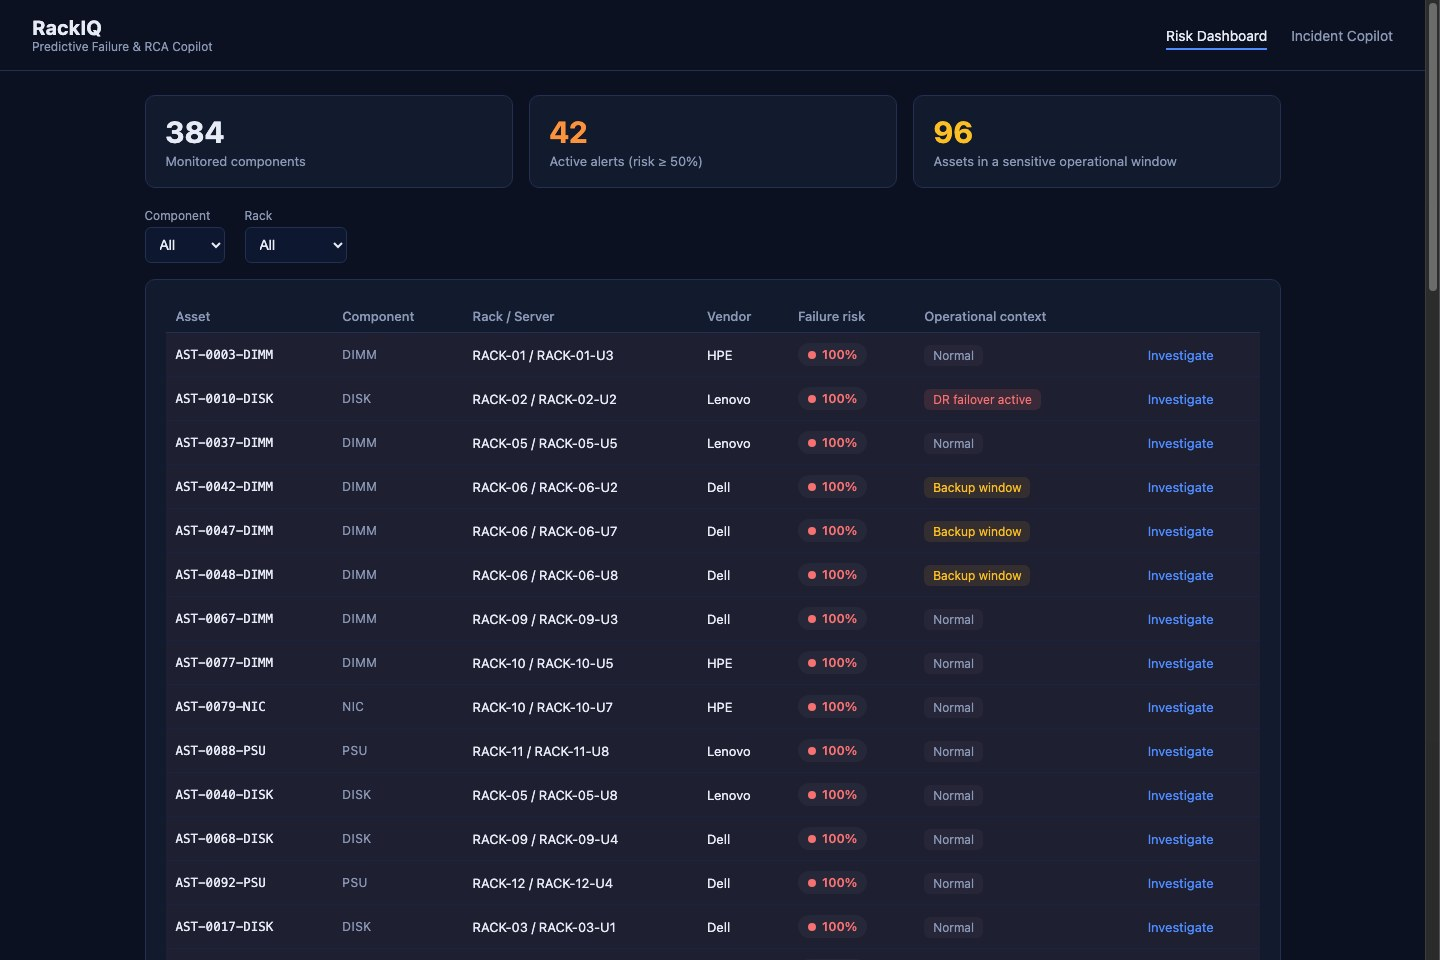
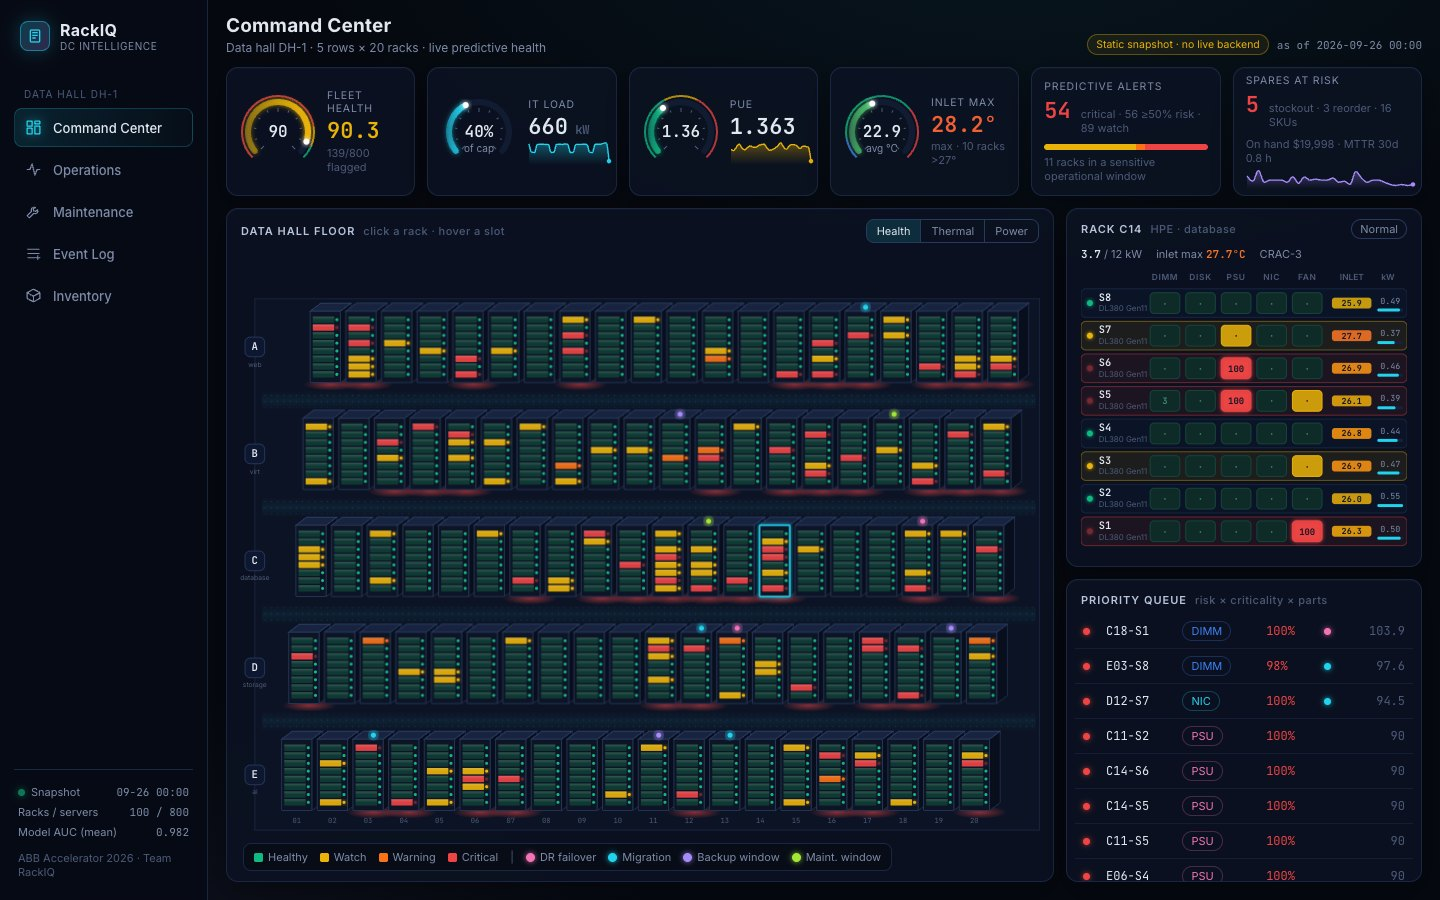
Update RackIQ project: v2 DCIM dashboard, new screenshots and links

diff --git a/_projects/4_rackiq.md b/_projects/4_rackiq.md
@@ -1,7 +1,7 @@
 ---
 layout: page
 title: RackIQ
-description: A predictive hardware failure & cited RCA recommendation copilot for data center operations. Prototype-phase finalist, ABB Accelerator 2026.
+description: A predictive hardware failure & cited RCA copilot for data centers — 100-rack DCIM dashboard with spare-parts linkage. Prototype-phase finalist, ABB Accelerator 2026.
 img: assets/img/projects/rackiq_dashboard.jpg
 importance: 4
 category: machine learning
@@ -11,29 +11,50 @@ category: machine learning
 
 ### The problem
 
-Hardware failures in a data center — DIMM errors, disk pre-failure signals, PSU faults, NIC flaps — surface during the worst possible windows: migrations, backup jobs, disaster-recovery failovers, exactly when diagnosis time extends outage exposure. The fix has usually already been found before, in a closed ticket or an RCA document from six months ago, but it's fragmented, unindexed, and held in the memory of a handful of senior engineers.
+Hardware failures in a data center — DIMM errors, disk pre-failure, PSU faults, NIC flaps, fan wear — surface during migrations, backups and DR failovers, exactly when diagnosis time extends outage exposure. The fix usually exists already in a closed ticket or an RCA from months ago, but it is fragmented and held by a few senior engineers. And if the part is not on the shelf, even the right fix waits.
 
 ### What it does
 
-RackIQ predicts component failure risk from telemetry trends — with a SHAP-based explanation of which signals are driving the score, not a bare probability — then retrieves the specific historical fix that resolved the same failure signature before, cited back to its source ticket or manual, and adapted to whatever is operationally happening on that rack right now (safe to hot-swap, or does a DR failover need to complete first?).
+RackIQ predicts 72-hour failure risk for every monitored component from telemetry trends (explained with SHAP, plus an anomaly index for early warnings), recommends the fix that actually held in the organization's own 12-month incident history — cited, ranked by durable-fix rate, with failed fixes flagged — puts a safety step first when the rack is mid-migration or serving a DR failover, and shows whether the spare part is in stock.
 
 <div class="row justify-content-sm-center mt-4">
   <div class="col-sm-12 mt-3 mt-md-0">
-    {% include figure.liquid loading="eager" path="assets/img/projects/rackiq_recommend.jpg" class="img-fluid rounded z-depth-1" %}
+    {% include figure.liquid loading="eager" path="assets/img/projects/rackiq_dashboard.jpg" class="img-fluid rounded z-depth-1" %}
   </div>
 </div>
 <div class="caption">
-  A disk at 100% predicted failure risk on a rack mid-DR-failover: the safety note comes first, the fix is cited to its source document, and confidence is scored from the evidence itself.
+  Command Center: a 3D data hall of 100 racks and 800 servers, every slot coloured by predicted health, with beacons for racks in migration, backup, DR-failover or maintenance windows.
+</div>
+
+<div class="row mt-3">
+  <div class="col-sm mt-3 mt-md-0">
+    {% include figure.liquid loading="lazy" path="assets/img/projects/rackiq_thermal.jpg" class="img-fluid rounded z-depth-1" %}
+  </div>
+  <div class="col-sm mt-3 mt-md-0">
+    {% include figure.liquid loading="lazy" path="assets/img/projects/rackiq_inventory.jpg" class="img-fluid rounded z-depth-1" %}
+  </div>
+</div>
+<div class="caption">
+  Left: the same floor in thermal mode exposes a failing cooling unit. Right: the spare-parts view flags SKUs that cannot cover the failures the models predict.
+</div>
+
+<div class="row justify-content-sm-center mt-3">
+  <div class="col-sm-12 mt-3 mt-md-0">
+    {% include figure.liquid loading="lazy" path="assets/img/projects/rackiq_recommend.jpg" class="img-fluid rounded z-depth-1" %}
+  </div>
+</div>
+<div class="caption">
+  A DIMM at 100% predicted risk on a DR-failover rack: safety step first, the proven fix with its 12-month record and live stock, and the reseat flagged because it held only a third of the time.
 </div>
 
 ### Under the hood
 
-Per-component LightGBM failure-risk models (DIMM, disk, PSU, NIC) tracked in MLflow, a hybrid BM25 + TF-IDF retrieval layer over a ticket/RCA/manual/email knowledge base, a fault knowledge graph (`Component → Symptom → Root Cause → Fix → Ticket`), and a deterministic, cited recommendation agent that combines predictive risk, retrieved evidence, and live operational context — no free-form LLM generation in the loop, so no hallucination risk. FastAPI backend, React/Vite frontend.
+Five LightGBM failure models (DIMM, disk, PSU, NIC, fan) tracked in MLflow, hybrid BM25 + vector retrieval over ~1,900 knowledge-base documents, a fault knowledge graph (`Component → Symptom → Root Cause → Fix`), and a deterministic, cited recommendation agent — no free-form LLM generation, so no hallucinated advice. FastAPI backend; a five-section DCIM frontend (Command Center, Operations, Maintenance, Event Log, Inventory) built with React and D3.js.
 
-Built on synthetic telemetry and a synthetic incident corpus (clearly documented as such) rather than real BMC/ServiceNow data, since the prototype phase runs on a fixed timeline with no access to a real data center's systems.
+Everything runs on clearly labelled synthetic data — 4,000 components, 90 days of MELT telemetry, 12 months of incidents and a simulated spare-parts warehouse — because the prototype phase has no access to a real data center's systems.
 
-- **Live demo:** [rackiq-copilot.web.app](https://rackiq-copilot.web.app) (static hosted snapshot — no backend server behind it, see the repo for why)
+- **Live demo:** [rackiq-copilot.web.app](https://rackiq-copilot.web.app) (static hosted snapshot)
 - **Source code:** [github.com/hendrosetyawan/rackiq](https://github.com/hendrosetyawan/rackiq)
-- **Demo video:** [42-second walkthrough](https://github.com/hendrosetyawan/rackiq/blob/main/docs/media/rackiq_demo.mp4)
+- **Demo video:** [56-second walkthrough](https://github.com/hendrosetyawan/rackiq/blob/main/docs/media/rackiq_demo.mp4)
 
-*Python · FastAPI · LightGBM · SHAP · MLflow · scikit-learn · BM25 · networkx · React*
+*Python · FastAPI · LightGBM · SHAP · MLflow · BM25 · networkx · React · D3.js*
